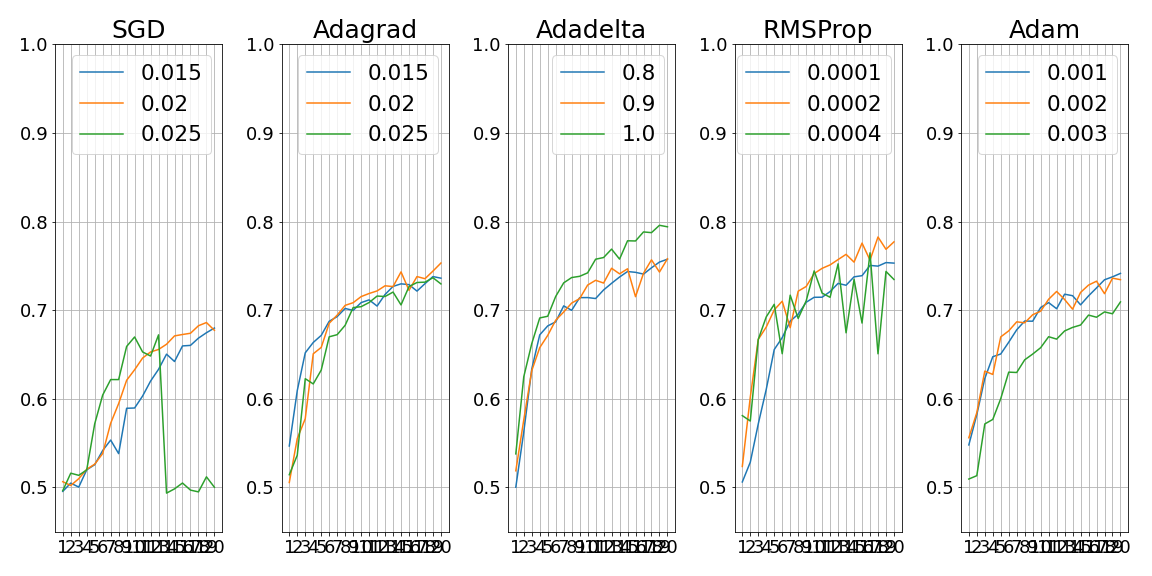
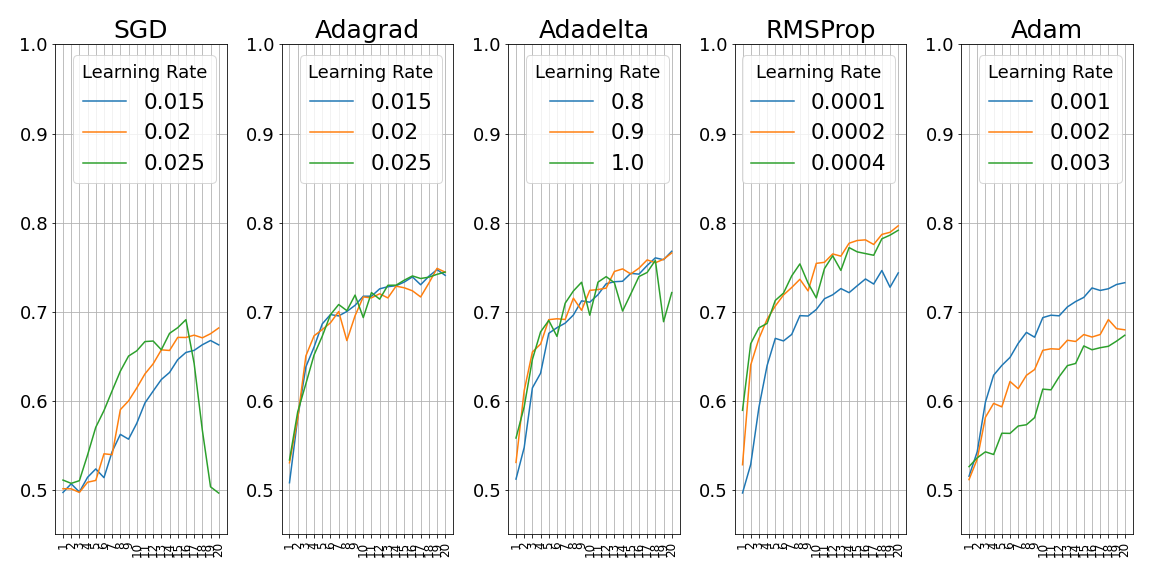
minor refactors

Changed region(s): [[0.0, 0.0312, 1.0, 0.9688]]

diff --git a/scripts/plot_utils.py b/scripts/plot_utils.py
@@ -31,7 +31,10 @@ def plotValAccuracy(val_acc, num_epochs, label, k):
 def fillSubplot(val_acc, num_epochs, label, ax, title):
     ax.plot(range(1, num_epochs+1), val_acc, label=label)
     ax.set_ylim(0.45, 1)
-    ax.set_xticks(range(1,21))
+    xvalues = range(1,21)
+    ax.set_xticks(xvalues)
     ax.set_title(title, fontsize = 25)
-    ax.legend()
+    ax.set_xticklabels(xvalues, fontsize = 12, rotation=90)
+    legend = ax.legend()
+    legend.set_title("Learning Rate")
     ax.grid(b=True)
